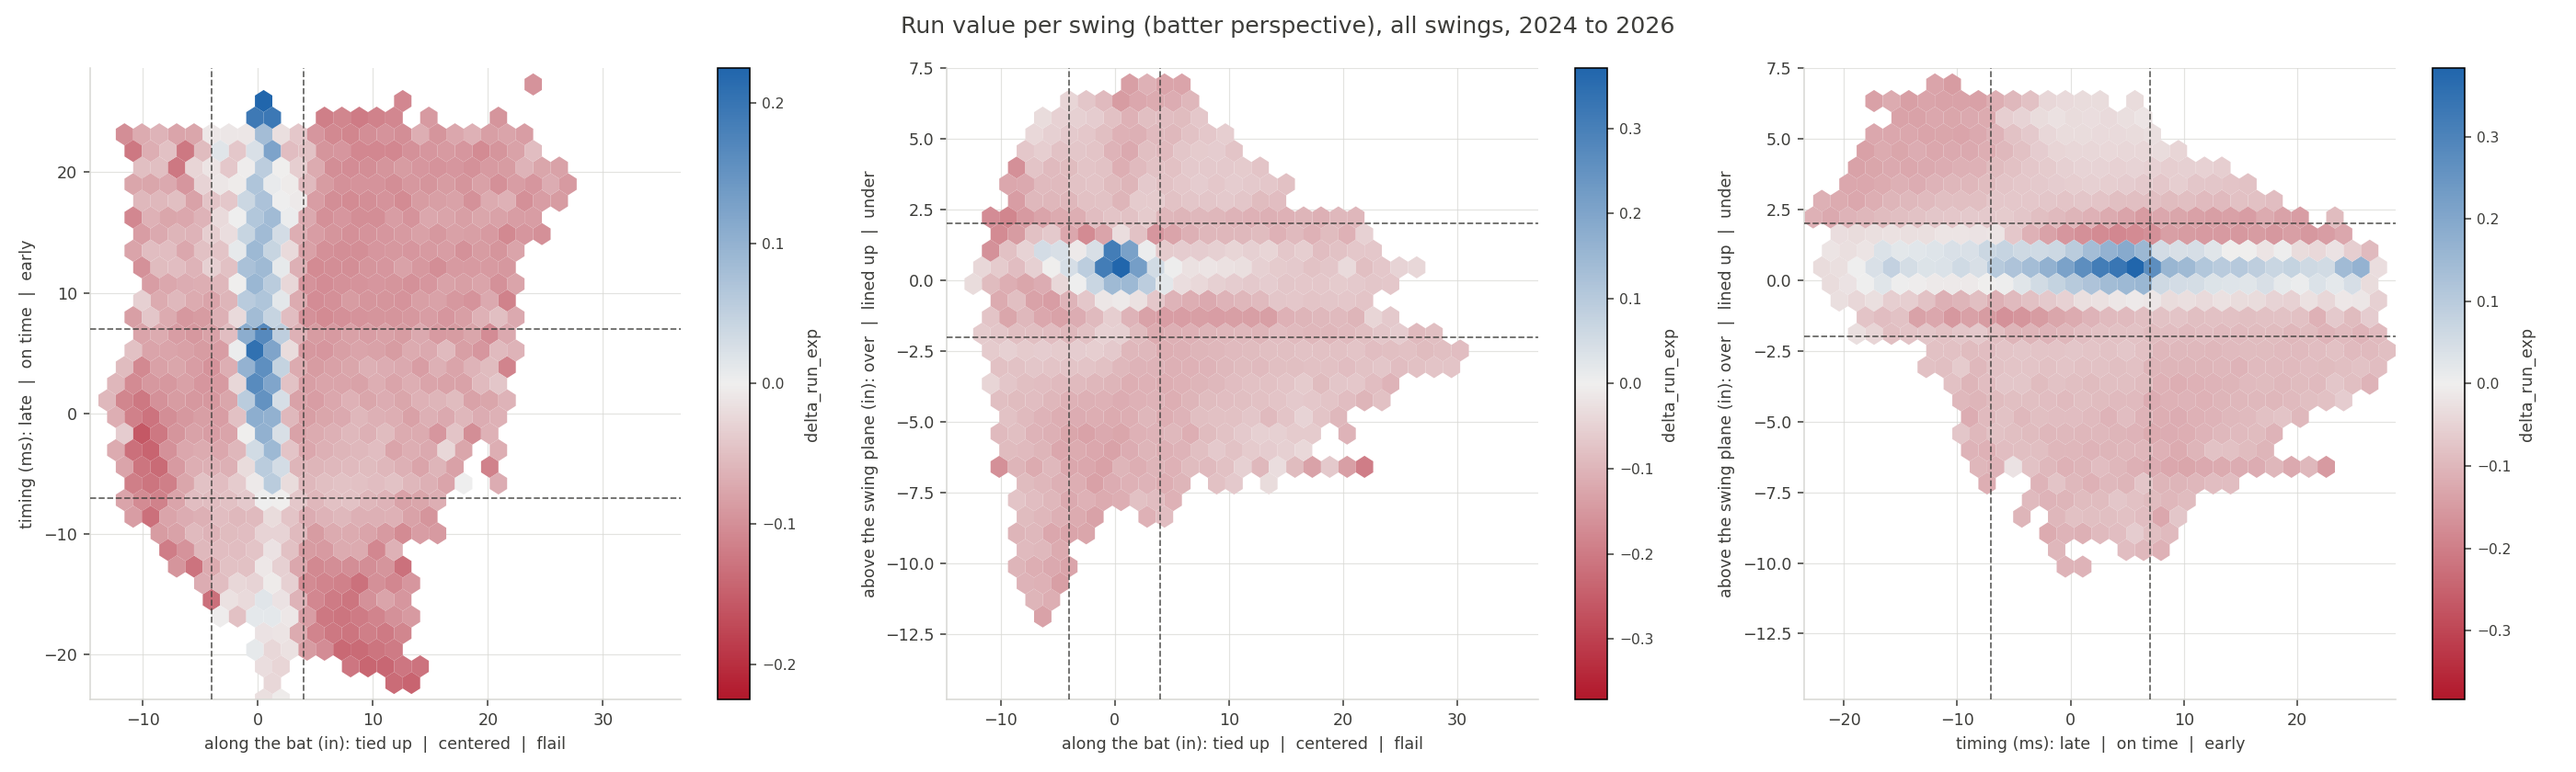
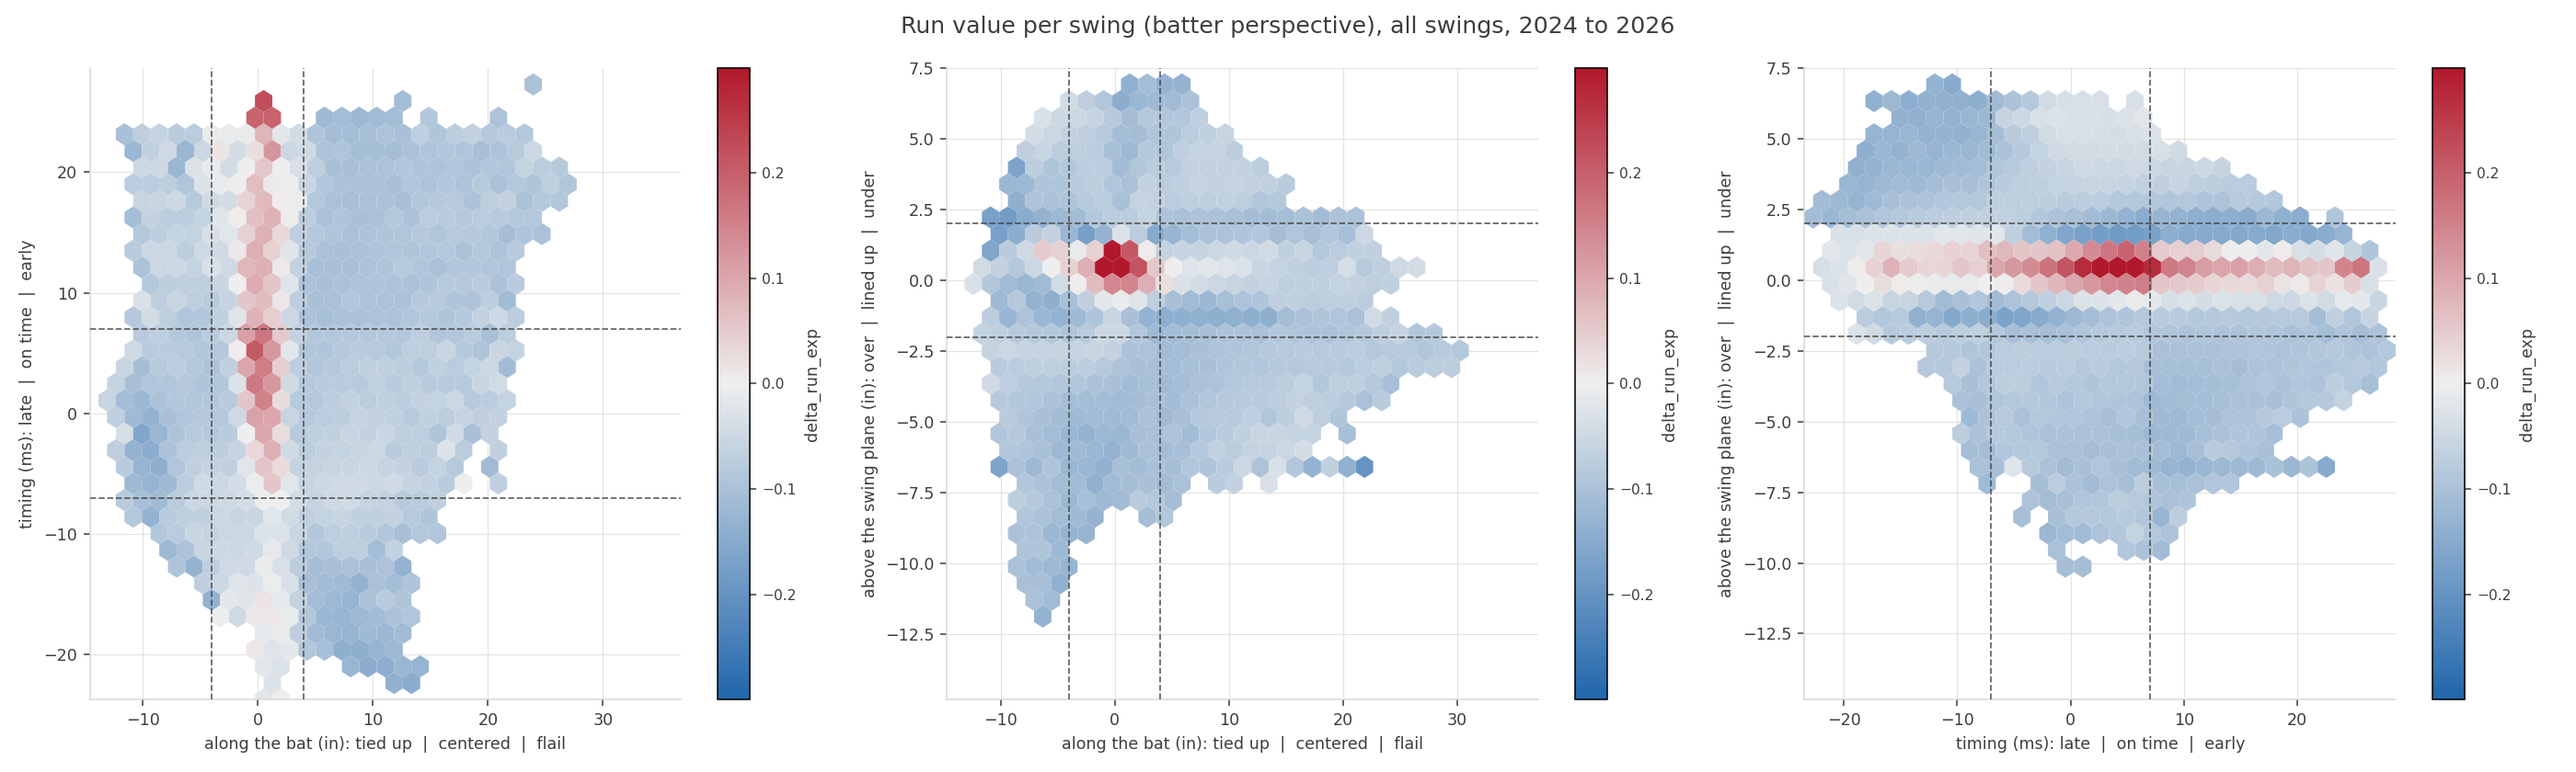
One fixed colour scale per quantity, cold blue to hot red
Expected wOBA draws on 0 to 1.2 with white at 0.600, run value on -0.3 to 0.3
with white at zero, on every panel and every figure. A scale fitted to each
panel's own data makes a quiet panel and a violent one look alike, and a reading
does not carry from one figure to the next.

The colormap follows Savant's polarity, blue at the bottom and red at the top.
It ran red-low before, which reads backwards.

The 3D subtitles name the cell size, 2 in by 2 ms by 1 in on Savant's own grid,
so the lattice the markers sit on reads as the binning it is.

100 tests pass, 7 skip without the cached pulls.

diff --git a/cp_lib/plots.py b/cp_lib/plots.py
@@ -26,7 +26,18 @@ AXIS_LABEL = {
 }
 THRESH = {"x": 4.0, "y": 7.0, "z": 2.0}
 NEG, MID, POS = "#b2182b", "#efefee", "#2166ac"
-CMAP = LinearSegmentedColormap.from_list("rv", [NEG, MID, POS])
+# Savant's polarity: cold blue at the bottom of the scale, hot red at the top.
+CMAP = LinearSegmentedColormap.from_list("rv", [POS, MID, NEG])
+
+# One fixed scale per quantity, shared by every panel and every figure that
+# draws it. A per-panel scale fitted to its own data makes two panels look
+# alike when their cells are a quarter of a run apart, and the eye cannot
+# carry a reading from one figure to the next. Fixed limits cost some contrast
+# inside a single panel and buy comparability everywhere.
+SCALES = {
+    "delta_run_exp": (-0.3, 0.0, 0.3),
+    "estimated_woba_using_speedangle": (0.0, 0.6, 1.2),
+}
 GRID = "#d8d8d4"
 DPI = 140   # embedded in the notebook as base64; 200 dpi pushes the .ipynb past 16 MB
 INK = "#3d3d3a"
@@ -72,7 +83,7 @@ def heatmap(cal, df, axes=("x", "y"), value="delta_run_exp", min_n=50, title=Non
         ax.text(0.5, 0.5, "no cell reached the minimum count", ha="center", va="center",
                 transform=ax.transAxes, color=INK)
         return ax
-    centre, lo, hi = _diverging_limits(piv.to_numpy().ravel(), vcenter)
+    centre, lo, hi = _scale_for(value, piv.to_numpy().ravel(), vcenter)
     if vmax:
         lo, hi = centre - vmax, centre + vmax
     x_edges = np.append(piv.columns.to_numpy(float), piv.columns.max() + BINS[a])
@@ -184,8 +195,26 @@ def _diverging_limits(vals, vcenter=0.0, weights=None, keep=1.0):
                   else tuple(float(q) for q in np.quantile(vals, [edge, 1.0 - edge])))
         return centre, min(lo, centre - 1e-6), max(hi, centre + 1e-6)
     centre = float(vcenter)
-    lim = float(np.max(np.abs(vals - centre))) or 0.1
+    dev = np.abs(vals - centre)
+    # A robust reach, not the maximum. Over all swings 91.8 percent of the run
+    # value cells sit within a quarter of max|v - 0|, because a handful of
+    # extreme cells set the scale; clipping at the keep quantile puts the median
+    # cell at 40 percent of the bar instead of 14, and saturates the few.
+    lim = float(np.quantile(dev, keep) if keep < 1.0 else dev.max()) or 0.1
     return centre, centre - lim, centre + lim
+
+
+def _scale_for(value, vals, vcenter=0.0, weights=None, keep=1.0):
+    """The colour limits for `value`: its fixed scale when it has one.
+
+    Falls back to _diverging_limits for a quantity SCALES does not name, so a
+    new metric still draws something sensible instead of raising.
+    """
+    fixed = SCALES.get(value)
+    if fixed is not None:
+        lo, centre, hi = (float(f) for f in fixed)
+        return centre, lo, hi
+    return _diverging_limits(vals, vcenter, weights=weights, keep=keep)
 
 
 def _bulk_extent(v: np.ndarray, axis: str, keep=0.998):
@@ -237,7 +266,7 @@ def hexbin(cal, df, axes=("x", "y"), value="delta_run_exp", min_n=50, title=None
     vals = hb.get_array()
     vals = np.asarray(vals[np.isfinite(vals)], float)
     if vals.size:
-        centre, lo, hi = _diverging_limits(vals, vcenter)
+        centre, lo, hi = _scale_for(value, vals, vcenter)
         if vmax:
             lo, hi = centre - vmax, centre + vmax
         hb.set_norm(TwoSlopeNorm(vcenter=centre, vmin=lo, vmax=hi))
@@ -292,7 +321,7 @@ def cells3d(cal, df, value="estimated_woba_using_speedangle", min_n=25):
 
 
 def cloud3d(cal, df, out_png: Path, title: str,
-            value="estimated_woba_using_speedangle", min_n=25, keep=0.99,
+            value="estimated_woba_using_speedangle", min_n=25, keep=0.98,
             vcenter=None) -> Path:
     """The three axes at once, one marker per cell, coloured by `value`.
 
@@ -311,15 +340,18 @@ def cloud3d(cal, df, out_png: Path, title: str,
         fig.savefig(out_png, dpi=DPI, facecolor="white")
         plt.close(fig)
         return Path(out_png)
-    centre, lo, hi = _diverging_limits(g["mean"], vcenter, weights=g["n"], keep=keep)
+    centre, lo, hi = _scale_for(value, g["mean"], vcenter, weights=g["n"], keep=keep)
     norm = TwoSlopeNorm(vcenter=centre, vmin=lo, vmax=hi)
-    reach = max(centre - lo, hi - centre)
-    dist = np.clip(np.abs(g["mean"] - centre) / reach, 0, 1)
+    # Colour comes off the fixed scale so the figure is comparable; opacity is
+    # fitted to the spread actually present, or a fixed scale wider than the
+    # data would fade every marker at once.
+    seen = float(np.quantile(np.abs(g["mean"] - centre), keep)) or 0.1
+    dist = np.clip(np.abs(g["mean"] - centre) / seen, 0, 1)
     # Alpha is baked into the face colours rather than passed as `alpha=`. A 3D
     # collection re-pairs its alpha array against its EDGE colours too, and with
     # edgecolors="none" that is 551 alphas against 0 colours, which raises.
     rgba = CMAP(norm(g["mean"].to_numpy(float)))
-    rgba[:, 3] = 0.06 + 0.84 * dist ** 1.5
+    rgba[:, 3] = 0.10 + 0.80 * dist ** 1.1
     size = 8 + 42 * (g["n"] / g["n"].max()) ** 0.4
     views = ((22, -60), (22, 30), (60, -45), (8, -90))
     for i, (elev, azim) in enumerate(views, 1):
@@ -342,8 +374,10 @@ def cloud3d(cal, df, out_png: Path, title: str,
     cb = fig.colorbar(sm, ax=fig.axes, shrink=0.5, pad=0.02, fraction=0.03)
     cb.set_label(value, fontsize=9, color=INK)
     cb.ax.tick_params(labelsize=8, colors=INK)
-    fig.suptitle(f"{title}\n{len(g):,} cells of at least {min_n} swings, "
-                 f"white at {centre:.3f}, opacity rises with distance from it",
+    fig.suptitle(f"{title}\n one marker per {BINS['x']:.0f} in x {BINS['y']:.0f} ms x "
+                 f"{BINS['z']:.0f} in cell of Savant's grid: {len(g):,} cells of at least "
+                 f"{min_n} swings.\nFixed scale {lo:g} to {hi:g}, white at {centre:g}; "
+                 f"opacity rises with distance from white",
                  fontsize=12, color=INK)
     out_png = Path(out_png)
     out_png.parent.mkdir(parents=True, exist_ok=True)
@@ -353,7 +387,7 @@ def cloud3d(cal, df, out_png: Path, title: str,
 
 
 def cloud3d_html(cal, df, out_html: Path, title: str,
-                 value="estimated_woba_using_speedangle", min_n=25, keep=0.99,
+                 value="estimated_woba_using_speedangle", min_n=25, keep=0.98,
                  vcenter=None) -> Path:
     """The same cells as cloud3d, rotatable, as one self-contained HTML file.
 
@@ -370,11 +404,11 @@ def cloud3d_html(cal, df, out_html: Path, title: str,
     if g.empty:
         out_html.write_text("<p>no cell reached the minimum count</p>", encoding="utf-8")
         return out_html
-    centre, lo, hi = _diverging_limits(g["mean"], vcenter, weights=g["n"], keep=keep)
+    centre, lo, hi = _scale_for(value, g["mean"], vcenter, weights=g["n"], keep=keep)
     # plotly spaces a colorscale evenly over [cmin, cmax], so an asymmetric
     # reach needs white placed at the fraction the centre actually sits at.
     mid = (centre - lo) / (hi - lo) if hi > lo else 0.5
-    scale = [[0.0, NEG], [round(float(mid), 6), MID], [1.0, POS]]
+    scale = [[0.0, POS], [round(float(mid), 6), MID], [1.0, NEG]]
     size = 3 + 14 * (g["n"] / g["n"].max()) ** 0.4
     hover = [f"x {bx:+.0f} in<br>y {by:+.0f} ms<br>z {bz:+.0f} in"
              f"<br>{value} {m:.3f}<br>{int(n):,} swings"
@@ -386,9 +420,10 @@ def cloud3d_html(cal, df, out_html: Path, title: str,
                     line=dict(width=0),
                     colorbar=dict(title=dict(text=value, side="right"), thickness=14))))
     fig.update_layout(
-        title=dict(text=f"{title}<br><sub>{len(g):,} cells of at least {min_n} swings, "
-                        f"white at the league mean {centre:.3f}, marker size is cell count"
-                        "</sub>"),
+        title=dict(text=f"{title}<br><sub>one marker per {BINS['x']:.0f} in x "
+                        f"{BINS['y']:.0f} ms x {BINS['z']:.0f} in cell of Savant's grid: "
+                        f"{len(g):,} cells of at least {min_n} swings. White at "
+                        f"{centre:.3f}; marker size is cell count</sub>"),
         scene=dict(xaxis_title="x: along the bat (in)", yaxis_title="y: timing (ms)",
                    zaxis_title="z: above the plane (in)",
                    aspectmode="cube"),

diff --git a/tests/test_contact_point_plots.py b/tests/test_contact_point_plots.py
@@ -274,17 +274,82 @@ def test_cloud3d_html_places_white_at_the_centre_of_an_asymmetric_range(tmp_path
     somewhere that is not the league mean, and the page disagrees with the PNG.
     """
     cal, df = _fake(n=20000, seed=8)
-    df["estimated_woba_using_speedangle"] = np.abs(
-        np.random.default_rng(9).normal(0.2, 0.3, len(df)))
+    # A deterministic function of x, so the skew survives averaging inside a
+    # cell. Drawing per row instead lets the cell means concentrate on the mean
+    # and the fixture's own guard below then refuses the test.
+    df["unscaled_metric"] = np.exp(-np.abs(cal["x_cal"]) / 1.0)
+    # keep is passed on both sides so the test pins the placement rule, not the
+    # current default.
     out = plots.cloud3d_html(cal, df, tmp_path / "c.html", "t",
-                             value="estimated_woba_using_speedangle", min_n=10)
-    g = plots.cells3d(cal, df, "estimated_woba_using_speedangle", 10)
-    centre, lo, hi = plots._diverging_limits(g["mean"], None, weights=g["n"], keep=0.99)
+                             value="unscaled_metric", min_n=10, keep=0.98)
+    g = plots.cells3d(cal, df, "unscaled_metric", 10)
+    centre, lo, hi = plots._diverging_limits(g["mean"], None, weights=g["n"], keep=0.98)
     want = (centre - lo) / (hi - lo)
     assert abs(want - 0.5) > 0.02, "fixture is symmetric, the test proves nothing"
-    m = re.search(r'\[\[0(?:\.0)?,\s*"' + re.escape(plots.NEG)
+    m = re.search(r'\[\[0(?:\.0)?,\s*"' + re.escape(plots.POS)
                   + r'"\],\s*\[([0-9.]+),\s*"' + re.escape(plots.MID) + r'"\]',
                   out.read_text(encoding="utf-8"))
     assert m, "could not find the diverging colorscale in the page"
     assert abs(float(m.group(1)) - want) < 1e-3, (
         f"white sits at {m.group(1)} of the range, the mean is at {want:.4f}")
+
+
+def test_diverging_limits_clips_a_signed_reach_at_the_keep_quantile():
+    """A few extreme cells must not wash out the rest.
+
+    Over all swings 91.8 percent of the run value cells sat inside a quarter of
+    max|v|, so the figure was a faint pink blur with one blue streak. Clipping
+    the reach at the keep quantile puts the median cell at 40 percent of the
+    bar instead of 14.
+    """
+    v = np.concatenate([np.full(99, 0.05), np.array([5.0])])
+    _, lo_max, hi_max = plots._diverging_limits(v, 0.0, keep=1.0)
+    _, lo_clip, hi_clip = plots._diverging_limits(v, 0.0, keep=0.90)
+    assert hi_max == 5.0, "keep=1.0 should still reach the extreme"
+    assert hi_clip < 0.2, f"the outlier still set the reach ({hi_clip})"
+    assert lo_clip == -hi_clip, "a signed quantity must stay symmetric"
+
+
+def test_the_colormap_runs_cold_to_hot():
+    """Savant's polarity: blue at the bottom of the scale, red at the top."""
+    lo = plots.CMAP(0.0)[:3]
+    hi = plots.CMAP(1.0)[:3]
+    assert lo[2] > lo[0], f"the low end is not blue: {lo}"
+    assert hi[0] > hi[2], f"the high end is not red: {hi}"
+
+
+def test_the_fixed_scales_are_the_ones_that_were_asked_for():
+    assert plots.SCALES["estimated_woba_using_speedangle"] == (0.0, 0.6, 1.2)
+    assert plots.SCALES["delta_run_exp"] == (-0.3, 0.0, 0.3)
+
+
+def test_a_fixed_scale_ignores_the_data_it_is_given():
+    """The point of a fixed scale is that two panels can be compared.
+
+    A scale fitted per panel makes a quiet panel and a violent one look alike.
+    """
+    quiet = np.array([0.55, 0.60, 0.65])
+    violent = np.array([0.01, 0.60, 1.19])
+    for vals in (quiet, violent):
+        centre, lo, hi = plots._scale_for("estimated_woba_using_speedangle", vals)
+        assert (lo, centre, hi) == (0.0, 0.6, 1.2)
+
+
+def test_an_unnamed_metric_still_gets_limits():
+    vals = np.array([-0.4, 0.0, 0.9])
+    centre, lo, hi = plots._scale_for("some_new_metric", vals, vcenter=0.0)
+    assert centre == 0.0 and lo == -hi and hi > 0
+
+
+def test_every_panel_of_a_hexbin_grid_shares_one_scale(tmp_path):
+    import matplotlib.pyplot as plt
+    cal, df = _fake(n=20000, seed=11)
+    norms = []
+    for pair in (("x", "y"), ("x", "z"), ("y", "z")):
+        fig, ax = plt.subplots()
+        plots.hexbin(cal, df, pair, "estimated_woba_using_speedangle",
+                     min_n=5, ax=ax, cbar=False)
+        hb = [c for c in ax.collections if hasattr(c, "get_offsets")][0]
+        norms.append((hb.norm.vmin, hb.norm.vcenter, hb.norm.vmax))
+        plt.close(fig)
+    assert norms[0] == norms[1] == norms[2] == (0.0, 0.6, 1.2), norms

diff --git a/README.md b/README.md
@@ -15,6 +15,11 @@ what happened to the pitch.
 
 ![run value over the contact point](figures/hexbin_runvalue_all_swings.png)
 
+Every figure draws expected wOBA on one fixed scale, 0 to 1.2 with white at
+0.600, and run value on -0.3 to 0.3 with white at zero, blue cold and red hot.
+A scale fitted to each panel's own data makes a quiet panel and a violent one
+look alike, and nothing carries from one figure to the next.
+
 Only one of the three z bands pays. A swing more than 2 inches off its own
 plane almost never puts the ball in play: 1.4% of "over" swings and 3.4% of
 "under" ones do, against 59% of lined-up swings. Run value per swing follows,
